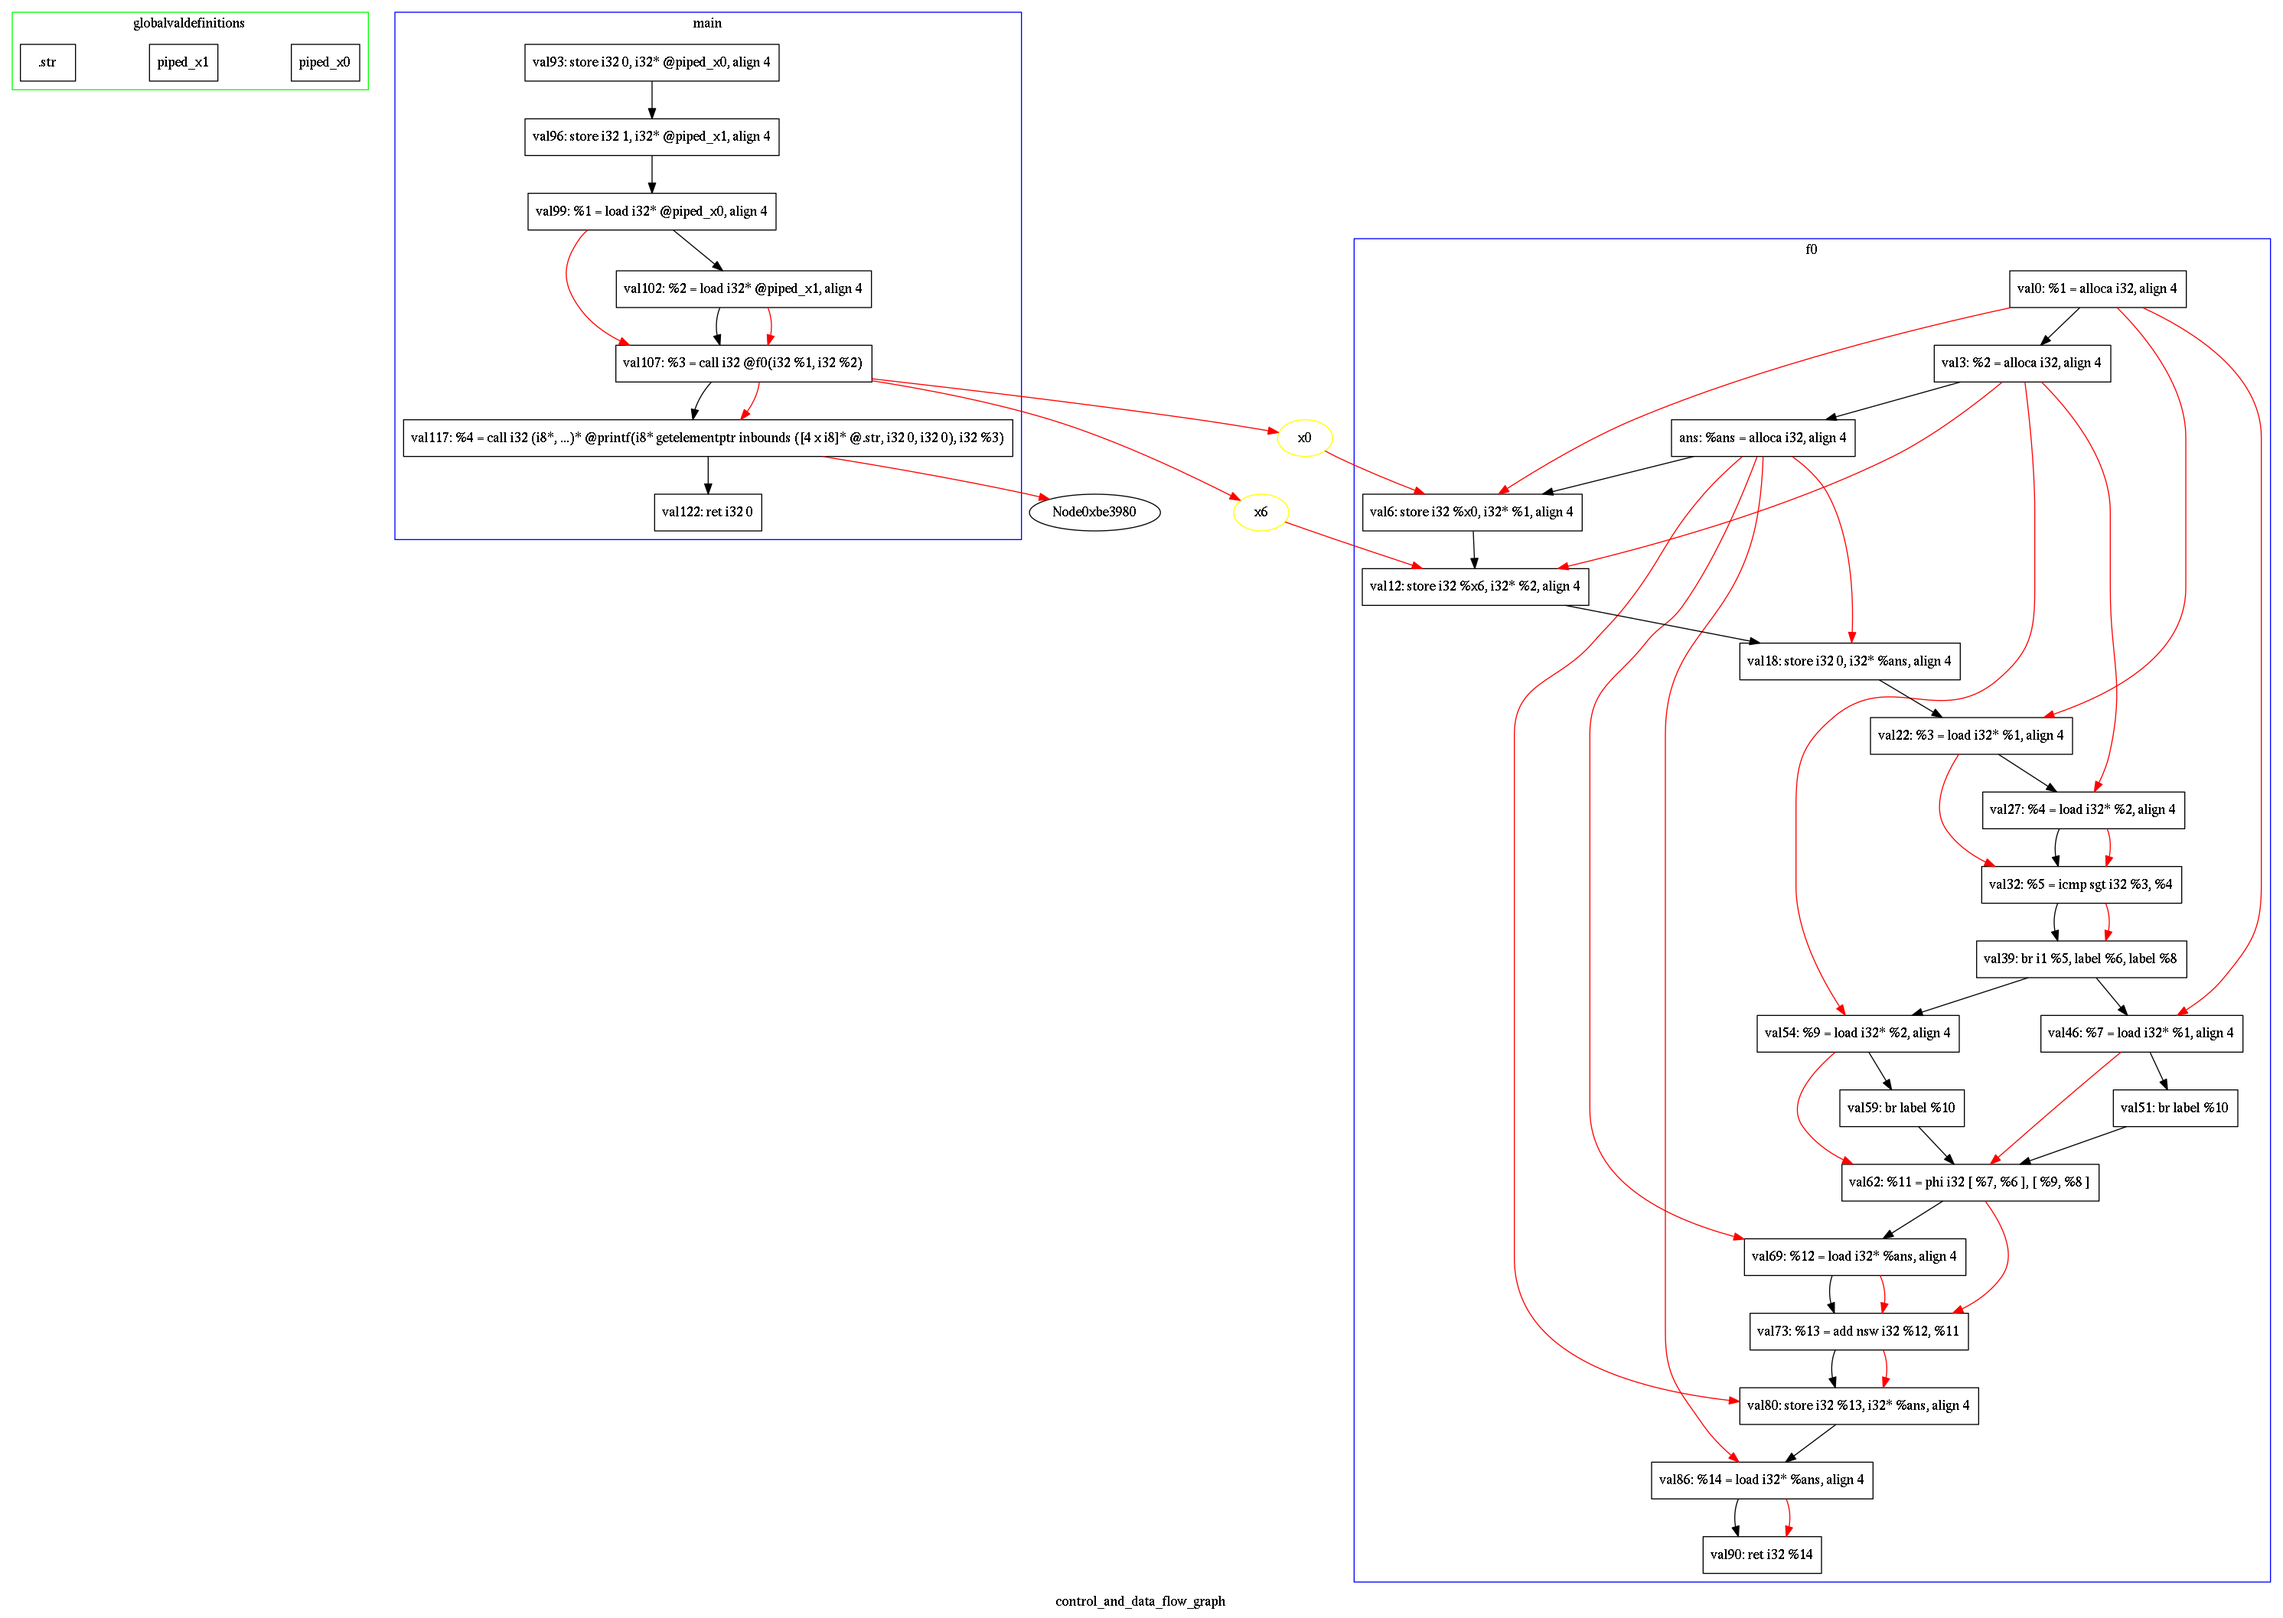
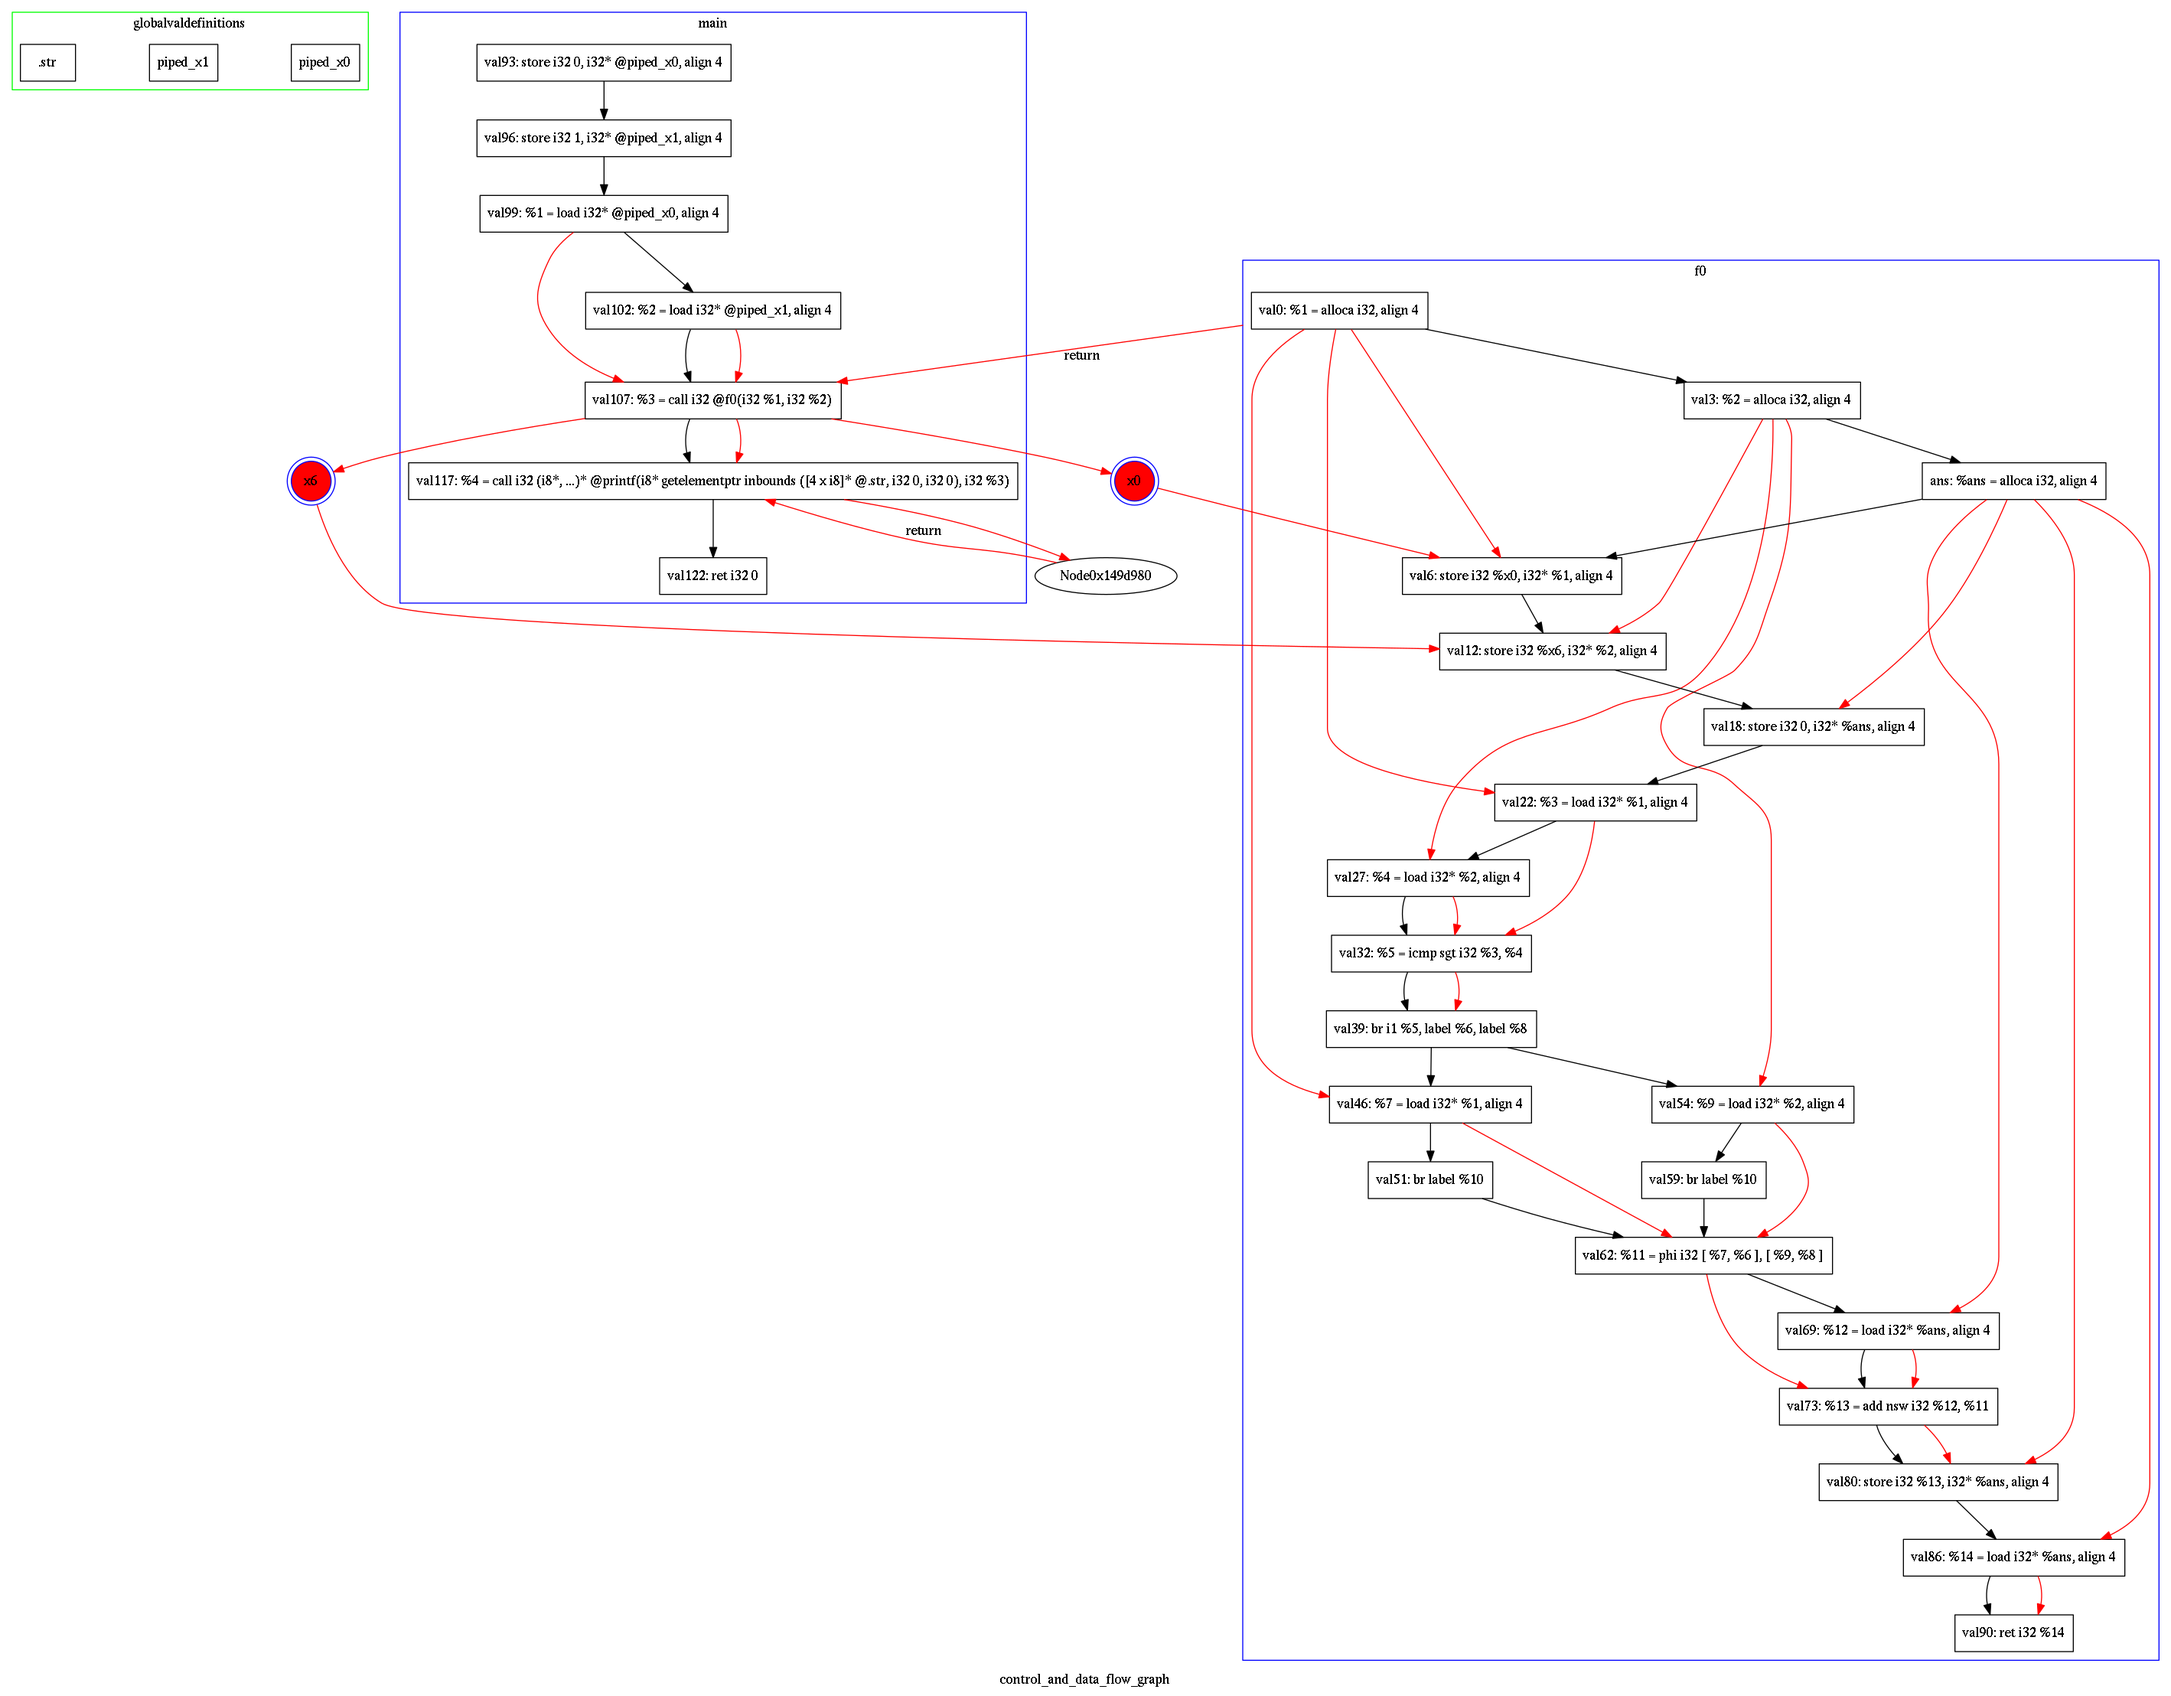
some md fixes and cc indents

diff --git a/dataflow.cc b/dataflow.cc
@@ -133,16 +133,16 @@ bool datautils::DataWorker::dumpDataflowEdges(std::ofstream& Out)/*{{{*/
     return false;
 }/*}}}*/
 
-bool datautils::DataWorker::dumpFunctionCalls(std::ofstream& Out)
+bool datautils::DataWorker::dumpFunctionCalls(std::ofstream& Out)/*{{{*/
 {
     for(auto call_l : func_calls)
-        Out << indent << "\tNode" << call_l.first << "-> Node" << call_l.second->front().begin() << "[lhead = cluster_"<< call_l.second->getName().str()<<"];\n";
+        Out << indent << "\tNode" << call_l.second->front().begin() << " -> Node"<< call_l.first <<"[ltail = cluster_"<< call_l.second->getName().str()<<", color=red, label=return];\n";
     return false;
-}
+}/*}}}*/
 
-bool datautils::DataWorker::dumpFunctionArguments(std::ofstream& Out, llvm::Function &F)
+bool datautils::DataWorker::dumpFunctionArguments(std::ofstream& Out, llvm::Function &F)/*{{{*/
 {
     for(auto arg_l : func_args[&F])
-        Out << indent << "\tNode" << arg_l.first<<"[label="<<arg_l.second<<", color=yellow, fillcolor=red];\n";
+        Out << indent << "\tNode" << arg_l.first<<"[label="<<arg_l.second<<", shape=doublecircle, style=filled, color=blue , fillcolor=red];\n";
 return false;
-}
+}/*}}}*/

diff --git a/README.md b/README.md
@@ -1,5 +1,6 @@
 ###LLVM Pass to write data and control flow graph for each statement
 [![Build](https://circleci.com/gh/k3ut0i/xmonad-conf.svg?style=shield&circle-token=:circle-token)](https://circleci.com/gh/k3ut0i/llvm-dataflow-graphs)
+[![MIT](http://img.shields.io/badge/license-MIT-green.svg?style=flat)](http://opensource.org/licenses/MIT)
 
 This is similar to graph-llvm-ir by pfalcon. but there seems to be some problems for it.
 
@@ -7,17 +8,28 @@ Current Status:
 1.  Control flow is good per function. should add?? between function blocks and calling
     statements??.
 2.  Data flow just getting started.
+
+
+Errors:
+1.  Global Data dependency not showing.
+2.  Edges from ret val of function to call node.
+3.  Handling core library functions.
+
+TODO:
+1.  The errors.
+2.  struct type single node for arguments of a function.
+3.  edges between functions and calls too cluttered find resonable comprimise.
+
 It's sample test code.
 ```c
-~~~{.c}
 #include <stdio.h>
-/*{{{*////Function Declarations.
-int f0(int x0 , int x6){
+
+int f0(int x0 , int x1){
     int ans = 0;
-    ans += (x0>x6)? x0: x6;
+    ans += (x0>x1)? x0: x1;
     return ans;
 }
-/*}}}*/
+
 int piped_x0, piped_x1;
 
 int main()
@@ -26,9 +38,8 @@ int main()
     piped_x1 = 1;
     printf("%d\n", f0(piped_x0, piped_x1));
 }
-~~~
-```c
 
+```
 Output Dot image
 ![dotfile](https://raw.githubusercontent.com/k3ut0i/llvm-dataflow-graphs/master/ctrl-data.png)
 
